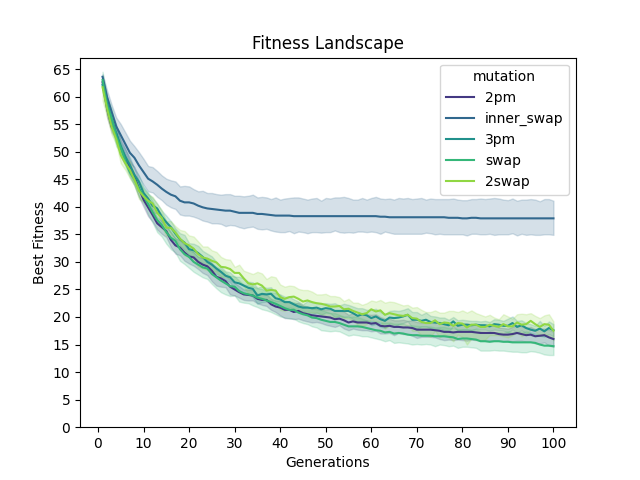
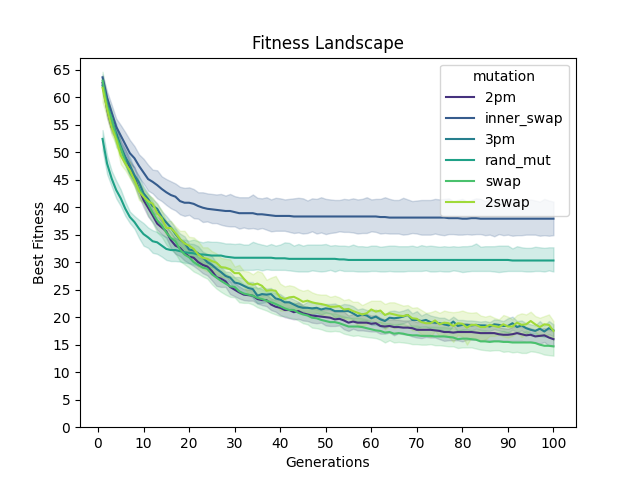
update results

diff --git a/results/stats_analysis.py b/results/stats_analysis.py
@@ -103,7 +103,13 @@ if __name__ == '__main__':
     mutation_inner_swap['generation'] = mutation_inner_swap['generation'].apply(lambda x: x + 1)
     mutation_inner_swap['mutation'] = 'inner_swap'
 
-    df_mutation = pd.concat([mutation_2pm, mutation_3pm, mutation_swap, mutation_2swap, mutation_inner_swap])
+    mutation_rand_mut = group_merge('mutation_test_tournament_rand_mut')
+    mutation_rand_mut.reset_index(inplace=True)
+    mutation_rand_mut.rename(columns={'index': 'generation', 0: 'fitness'}, inplace=True)
+    mutation_rand_mut['generation'] = mutation_rand_mut['generation'].apply(lambda x: x + 1)
+    mutation_rand_mut['mutation'] = 'rand_mut'
+
+    df_mutation = pd.concat([mutation_2pm, mutation_3pm, mutation_swap, mutation_2swap, mutation_inner_swap,  mutation_rand_mut])
     df_mutation.sort_values(by='generation', inplace=True)
     df_mutation.reset_index(drop=True, inplace=True)
 
